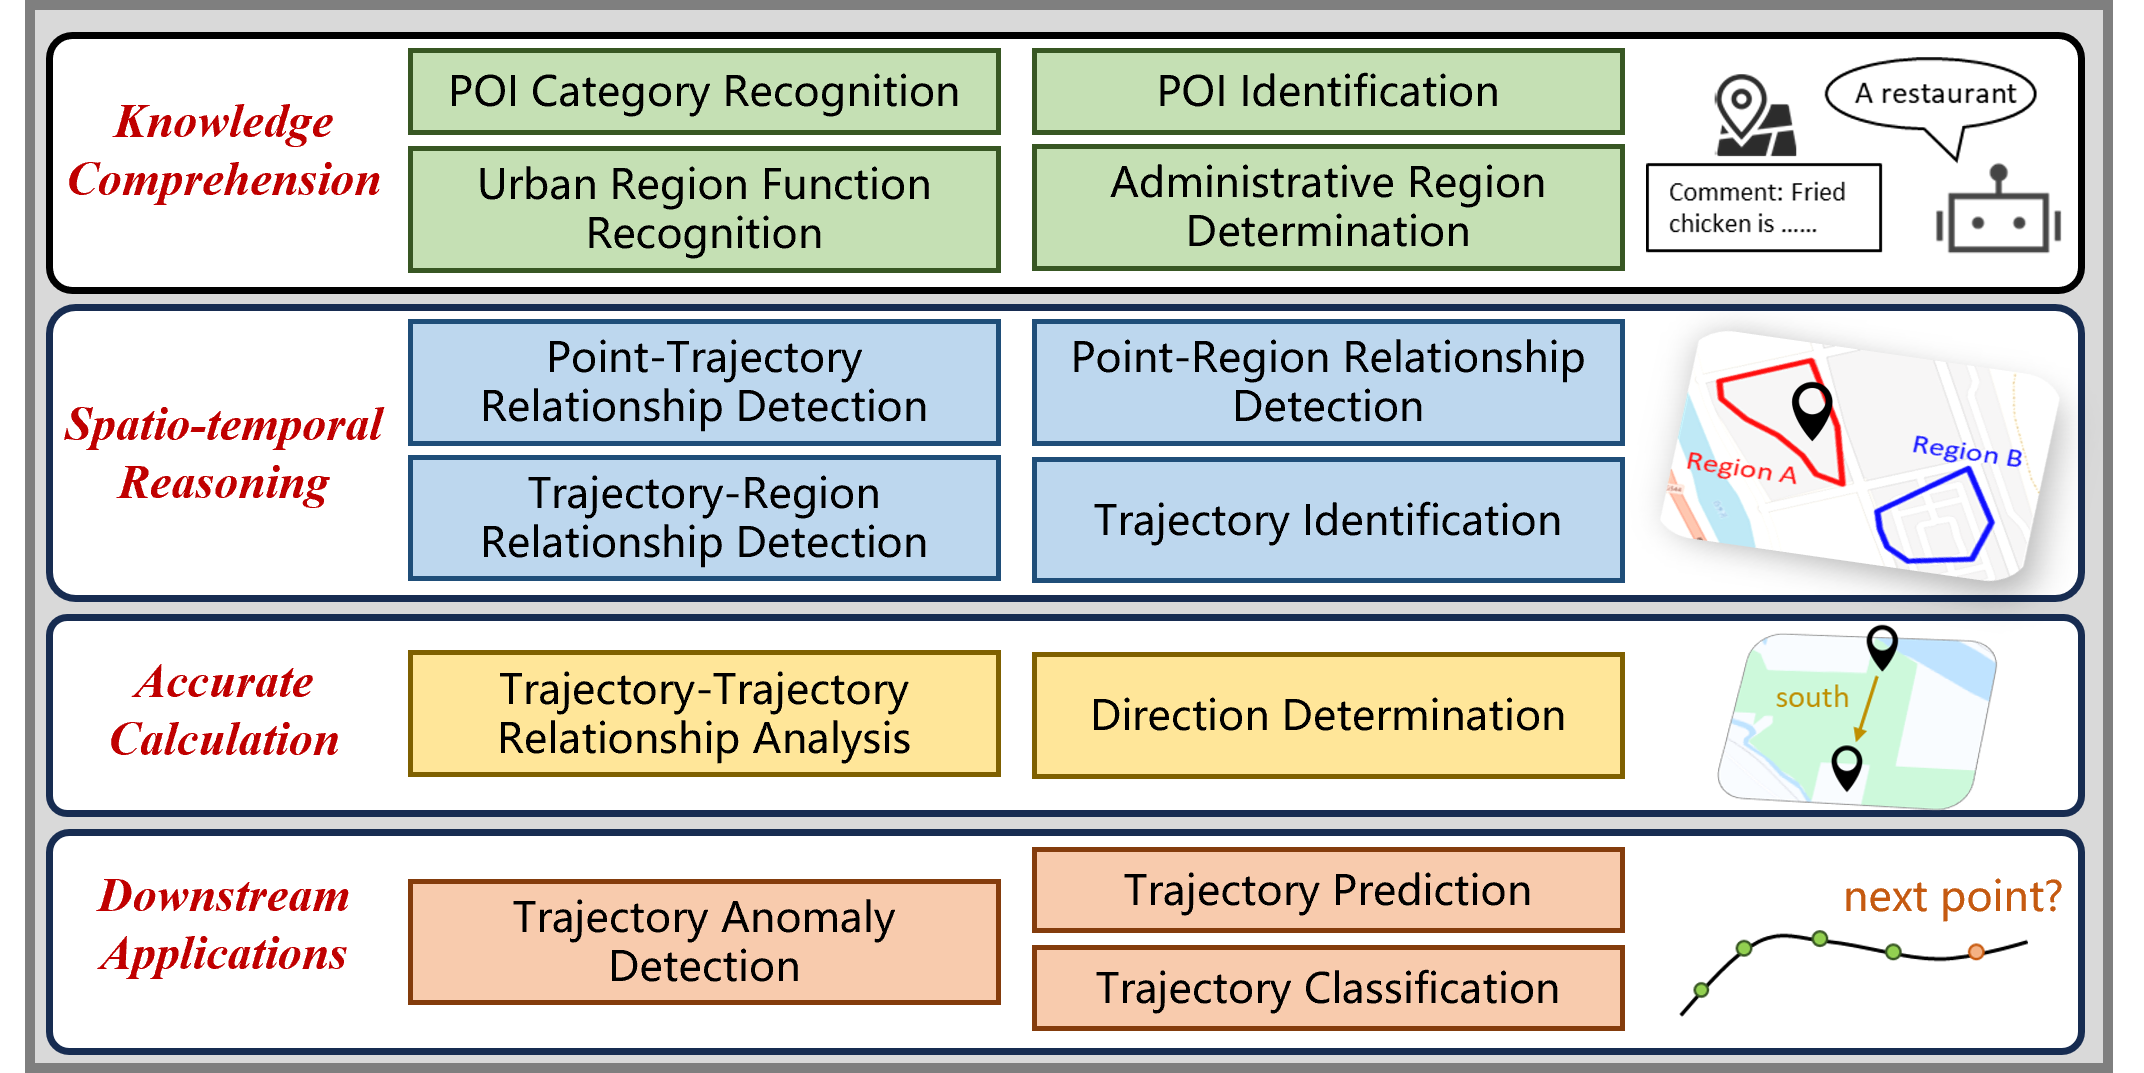
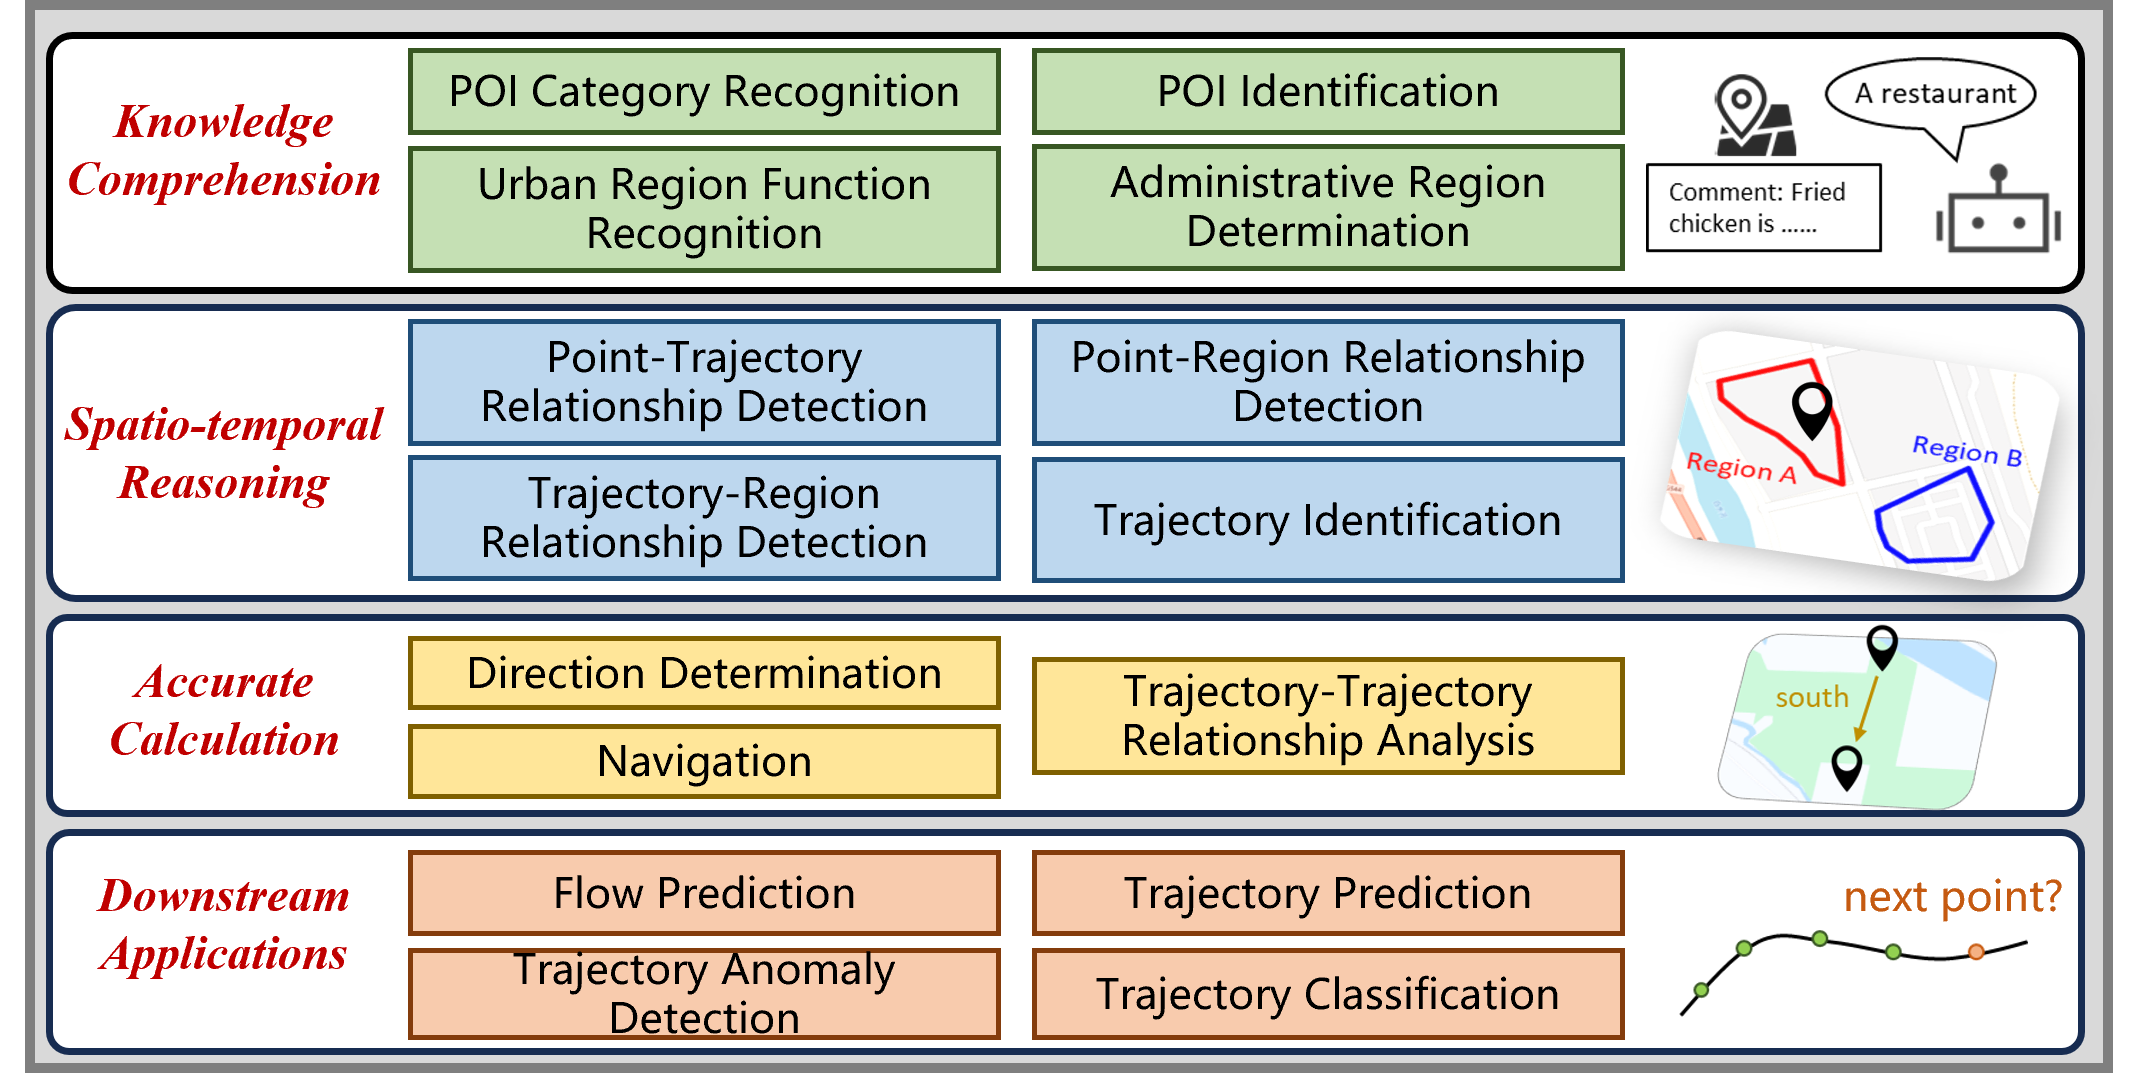
Update README.md

Changed region(s): [[0.1875, 0.5843, 0.75, 0.9842]]

diff --git a/README.md b/README.md
@@ -9,7 +9,7 @@ Institute of Computing Technology (ICT), Chinese Academy of Sciences (CAS)<br/>
 
 ![local file](overview.png)
 
-STBench is a benchmark to evaluate the ability of large language models in spatio-temporal analysis. This benchmark consists of 13 distinct tasks and over 60,000 question-answer pairs, covering four dimensions: knowledge comprehension, spatio-temporal reasoning, accurate computation and downstream applications.
+STBench is a benchmark to evaluate the ability of large language models in spatio-temporal analysis. This benchmark consists of 15 distinct tasks and over 70,000 question-answer pairs, covering four dimensions: knowledge comprehension, spatio-temporal reasoning, accurate computation and downstream applications.
 
 All data samples in STBench are in the form of text completion. An instance is as follows:
 ```text
@@ -110,6 +110,8 @@ Project
    
 ## Experimental Results
 
++ Accuracy and MAE are shown in the following table:
+
 <table>
     <tr>
         <td align="center"></td>
@@ -119,48 +121,48 @@ Project
         <td align="center" colspan="3">Downstream Applications</td>
     </tr>
     <tr>
-        <td align="center"></td><td align="center">PCR</td><td align="center">PI</td><td align="center">URFR</td><td align="center">ARD</td><td align="center">PTRD</td><td align="center">PRRD</td><td align="center">TRRD</td><td align="center">TI</td><td align="center">DD</td><td align="center">TTRA</td><td align="center">TAD</td><td align="center">TC</td><td align="center">TP</td>
+        <td align="center"></td><td align="center">PCR</td><td align="center">PI</td><td align="center">URFR</td><td align="center">ARD</td><td align="center">PTRD</td><td align="center">PRRD</td><td align="center">TRRD</td><td align="center">TI</td><td align="center">DD</td><td align="center">NAV</td><td align="center">TTRA</td><td align="center">FP</td><td align="center">TAD</td><td align="center">TC</td><td align="center">TP</td>
     </tr>
     <tr>
-        <td align="center"> ChatGPT </td><td align="center"><span style="text-decoration: underline;"> 0.7926 </span></td><td align="center"> 0.5864 </td><td align="center"><span style="text-decoration: underline;"> 0.3978 </span></td><td align="center"><span style="text-decoration: underline;"> 0.8358 </span></td><td align="center"><b> 0.7525 </b></td><td align="center"><b> 0.9240 </b></td><td align="center"> 0.0258 </td><td align="center"> 0.3342 </td><td align="center"> 0.1698 </td><td align="center"> 0.1048 </td><td align="center"><span style="text-decoration: underline;"> 0.5382 </span></td><td align="center"><b> 0.4475 </b></td><td align="center"> -
+        <td align="center"> ChatGPT </td><td align="center"><span style="text-decoration: underline;"> 0.7926 </span></td><td align="center"> 0.5864 </td><td align="center"><span style="text-decoration: underline;"> 0.3978 </span></td><td align="center"><span style="text-decoration: underline;"> 0.8358 </span></td><td align="center"><b> 0.7525 </b></td><td align="center"><b> 0.9240 </b></td><td align="center"> 0.0258 </td><td align="center"> 0.3342 </td><td align="center"> 0.1698 </td><td align="center"><span style="text-decoration: underline;"> 0.4384 </span></td><td align="center"> 0.1048 </td><td align="center"> 37.33 </td><td align="center"><span style="text-decoration: underline;"> 0.5382 </span></td><td align="center"><b> 0.4475 </b></td><td align="center"> -
     </tr>
     <tr>
-        <td align="center">GPT-4o </td><td align="center"><b> 0.9588 </b></td><td align="center"><b> 0.7268 </b></td><td align="center"><b> 0.6026 </b></td><td align="center"><b> 0.9656 </b></td><td align="center"> - </td><td align="center"><span style="text-decoration: underline;"> 0.9188 </span></td><td align="center"> 0.1102 </td><td align="center"> 0.4416 </td><td align="center"><b> 0.5434 </b></td><td align="center"><b> 0.3404 </b></td><td align="center"><b> 0.6016 </b></td><td align="center"> - </td><td align="center"> - </td>
+        <td align="center">GPT-4o </td><td align="center"><b> 0.9588 </b></td><td align="center"><b> 0.7268 </b></td><td align="center"><b> 0.6026 </b></td><td align="center"><b> 0.9656 </b></td><td align="center"> - </td><td align="center"><span style="text-decoration: underline;"> 0.9188 </span></td><td align="center"> 0.1102 </td><td align="center"> 0.4416 </td><td align="center"><b> 0.5434 </b><td align="center"><b> 0.7552 </b></td></td><td align="center"><b> 0.3404 </b><td align="center"> 43.25 </td></td><td align="center"><b> 0.6016 </b></td><td align="center"> - </td><td align="center"> - </td>
     </tr>
     <tr>
-        <td align="center"> ChatGLM2 </td><td align="center"> 0.2938 </td><td align="center"> 0.5004 </td><td align="center"> 0.2661 </td><td align="center"> 0.2176 </td><td align="center"> 0.2036 </td><td align="center"> 0.5216 </td><td align="center"><b> 0.2790 </b></td><td align="center"> 0.5000 </td><td align="center"> 0.1182 </td><td align="center"> 0.1992 </td><td align="center"> 0.5000 </td><td align="center"> 0.3333 </td><td align="center"> 231.2 </td>
+        <td align="center"> ChatGLM2 </td><td align="center"> 0.2938 </td><td align="center"> 0.5004 </td><td align="center"> 0.2661 </td><td align="center"> 0.2176 </td><td align="center"> 0.2036 </td><td align="center"> 0.5216 </td><td align="center"><b> 0.2790 </b></td><td align="center"> 0.5000 </td><td align="center"> 0.1182 </td><td align="center"> 0.2924 </td><td align="center"> 0.1992 </td><td align="center"> 63.72 </td><td align="center"> 0.5000 </td><td align="center"> 0.3333 </td><td align="center"> 231.2 </td>
     </tr>
     <tr>
-        <td align="center"> ChatGLM3 </td><td align="center"> 0.4342 </td><td align="center"> 0.5272 </td><td align="center"> 0.2704 </td><td align="center"> 0.2872 </td><td align="center"> 0.3058 </td><td align="center"> 0.8244 </td><td align="center"> 0.1978 </td><td align="center"><span style="text-decoration: underline;"> 0.6842 </span></td><td align="center"> 0.1156 </td><td align="center"> 0.1828 </td><td align="center"> 0.5000 </td><td align="center"> 0.3111 </td><td align="center"> 224.5 </td>
+        <td align="center"> ChatGLM3 </td><td align="center"> 0.4342 </td><td align="center"> 0.5272 </td><td align="center"> 0.2704 </td><td align="center"> 0.2872 </td><td align="center"> 0.3058 </td><td align="center"> 0.8244 </td><td align="center"> 0.1978 </td><td align="center"><span style="text-decoration: underline;"> 0.6842 </span></td><td align="center"> 0.1156 </td><td align="center"> 0.2576 </td><td align="center"> 0.1828 </td><td align="center"> 59.24 </td><td align="center"> 0.5000 </td><td align="center"> 0.3111 </td><td align="center"> 224.5 </td>
     </tr>
     <tr>
-        <td align="center"> Phi-2 </td><td align="center"> - </td><td align="center"> 0.5267 </td><td align="center"> - </td><td align="center"> 0.2988 </td><td align="center"> - </td><td align="center"> - </td><td align="center"> - </td><td align="center"> 0.5000 </td><td align="center"> 0.1182 </td><td align="center"> 0.0658 </td><td align="center"> 0.5000 </td><td align="center"> 0.3333 </td><td align="center"> 206.9 </td>
+        <td align="center"> Phi-2 </td><td align="center"> - </td><td align="center"> 0.5267 </td><td align="center"> - </td><td align="center"> 0.2988 </td><td align="center"> - </td><td align="center"> - </td><td align="center"> - </td><td align="center"> 0.5000 </td><td align="center"> 0.1182 </td><td align="center"> 0.2912 </td><td align="center"> 0.0658 </td><td align="center"><span style="text-decoration: underline;"> 34.82 </span></td><td align="center"> 0.5000 </td><td align="center"> 0.3333 </td><td align="center"> 206.9 </td>
     </tr>
     <tr>
-        <td align="center"> Llama-2-7B </td><td align="center"> 0.2146 </td><td align="center"> 0.4790 </td><td align="center"> 0.2105 </td><td align="center"> 0.2198 </td><td align="center"> 0.2802 </td><td align="center"> 0.6606 </td><td align="center"> 0.2034 </td><td align="center"> 0.5486 </td><td align="center"> 0.1256 </td><td align="center"> 0.2062 </td><td align="center"> 0.5098</td><td align="center"> 0.3333 </td><td align="center"> 189.3 </td>
+        <td align="center"> Llama-2-7B </td><td align="center"> 0.2146 </td><td align="center"> 0.4790 </td><td align="center"> 0.2105 </td><td align="center"> 0.2198 </td><td align="center"> 0.2802 </td><td align="center"> 0.6606 </td><td align="center"> 0.2034 </td><td align="center"> 0.5486 </td><td align="center"> 0.1256 </td><td align="center"> 0.2774 </td><td align="center"> 0.2062 </td><td align="center"> 53.79 </td><td align="center"> 0.5098</td><td align="center"> 0.3333 </td><td align="center"> 189.3 </td>
     </tr>
     <tr>
-        <td align="center"> Vicuna-7B </td><td align="center"> 0.3858 </td><td align="center"> 0.5836 </td><td align="center"> 0.2063 </td><td align="center"> 0.2212 </td><td align="center"> 0.3470 </td><td align="center"> 0.7080 </td><td align="center"> 0.1968 </td><td align="center"> 0.5000 </td><td align="center"> 0.1106 </td><td align="center"> 0.1728 </td><td align="center"> 0.5000 </td><td align="center"> 0.2558 </td><td align="center"> 188.1</td>
+        <td align="center"> Vicuna-7B </td><td align="center"> 0.3858 </td><td align="center"> 0.5836 </td><td align="center"> 0.2063 </td><td align="center"> 0.2212 </td><td align="center"> 0.3470 </td><td align="center"> 0.7080 </td><td align="center"> 0.1968 </td><td align="center"> 0.5000 </td><td align="center"> 0.1106 </td><td align="center"> 0.2588 </td><td align="center"> 0.1728 </td><td align="center"> 48.19 </td><td align="center"> 0.5000 </td><td align="center"> 0.2558 </td><td align="center"> 188.1</td>
     </tr>
     <tr>
-        <td align="center"> Gemma-2B </td><td align="center"> 0.2116 </td><td align="center"> 0.5000 </td><td align="center"> 0.1989 </td><td align="center"> 0.1938 </td><td align="center"> 0.4688 </td><td align="center"> 0.5744 </td><td align="center"> 0.2014 </td><td align="center"> 0.5000 </td><td align="center"><span style="text-decoration: underline;"> 0.1972 </span></td><td align="center"> 0.2038 </td><td align="center"> 0.5000 </td><td align="center"> 0.3333 </td><td align="center"> 207.7 </td>
+        <td align="center"> Gemma-2B </td><td align="center"> 0.2116 </td><td align="center"> 0.5000 </td><td align="center"> 0.1989 </td><td align="center"> 0.1938 </td><td align="center"> 0.4688 </td><td align="center"> 0.5744 </td><td align="center"> 0.2014 </td><td align="center"> 0.5000 </td><td align="center"><span style="text-decoration: underline;"> 0.1972 </span></td><td align="center"> 0.2592 </td><td align="center"> 0.2038 </td><td align="center"> 41.79 </td><td align="center"> 0.5000 </td><td align="center"> 0.3333 </td><td align="center"> 207.7 </td>
     </tr>
     <tr>
-        <td align="center"> Gemma-7B </td><td align="center"> 0.4462 </td><td align="center"> 0.5000 </td><td align="center"> 0.2258 </td><td align="center"> 0.2652 </td><td align="center"> 0.3782 </td><td align="center"> 0.9044 </td><td align="center"> 0.1992 </td><td align="center"> 0.5000 </td><td align="center"> 0.1182 </td><td align="center"> 0.1426 </td><td align="center"> 0.5000 </td><td align="center"> 0.3333 </td><td align="center"><b> 139.4</b></td>
+        <td align="center"> Gemma-7B </td><td align="center"> 0.4462 </td><td align="center"> 0.5000 </td><td align="center"> 0.2258 </td><td align="center"> 0.2652 </td><td align="center"> 0.3782 </td><td align="center"> 0.9044 </td><td align="center"> 0.1992 </td><td align="center"> 0.5000 </td><td align="center"> 0.1182 </td><td align="center"> 0.3886 </td><td align="center"> 0.1426 </td><td align="center"><b> 31.85 </b></td><td align="center"> 0.5000 </td><td align="center"> 0.3333 </td><td align="center"><b> 139.4</b></td>
     </tr>
     <tr>
-        <td align="center"> DeepSeek-7B </td><td align="center"> 0.2160 </td><td align="center"> 0.4708 </td><td align="center"> 0.2071 </td><td align="center"> 0.1938 </td><td align="center"> 0.2142 </td><td align="center"> 0.6424 </td><td align="center"> 0.1173 </td><td align="center"> 0.4964 </td><td align="center"> 0.1972 </td><td align="center"> 0.1646 </td><td align="center"> 0.5000 </td><td align="center"> 0.3333 </td><td align="center"> 220.8</td>
+        <td align="center"> DeepSeek-7B </td><td align="center"> 0.2160 </td><td align="center"> 0.4708 </td><td align="center"> 0.2071 </td><td align="center"> 0.1938 </td><td align="center"> 0.2142 </td><td align="center"> 0.6424 </td><td align="center"> 0.1173 </td><td align="center"> 0.4964 </td><td align="center"> 0.1972 </td><td align="center"> 0.3058 </td><td align="center"> 0.1646 </td><td align="center"> 56.89 </td><td align="center"> 0.5000 </td><td align="center"> 0.3333 </td><td align="center"> 220.8</td>
     </tr>
     <tr>
-        <td align="center"> Falcon-7B </td><td align="center"> 0.1888 </td><td align="center"> 0.5112 </td><td align="center"> 0.1929 </td><td align="center"> 0.1928 </td><td align="center"> 0.1918 </td><td align="center"> 0.4222 </td><td align="center"><span style="text-decoration: underline;"> 0.2061 </span></td><td align="center"><b> 0.7072 </b></td><td align="center"> 0.1365 </td><td align="center"> 0.2124 </td><td align="center"> 0.5000 </td><td align="center"> 0.3309 </td><td align="center"> 3572.8 </td>
+        <td align="center"> Falcon-7B </td><td align="center"> 0.1888 </td><td align="center"> 0.5112 </td><td align="center"> 0.1929 </td><td align="center"> 0.1928 </td><td align="center"> 0.1918 </td><td align="center"> 0.4222 </td><td align="center"><span style="text-decoration: underline;"> 0.2061 </span></td><td align="center"><b> 0.7072 </b></td><td align="center"> 0.1365 </td><td align="center"> 0.2610 </td><td align="center"> 0.2124 </td><td align="center"> 62.52 </td><td align="center"> 0.5000 </td><td align="center"> 0.3309 </td><td align="center"> 3572.8 </td>
     </tr>
     <tr>
-        <td align="center"> Mistral-7B </td><td align="center"> 0.3526 </td><td align="center"> 0.4918 </td><td align="center"> 0.2168 </td><td align="center"> 0.3014 </td><td align="center"> 0.4476 </td><td align="center"> 0.7098 </td><td align="center"> 0.0702 </td><td align="center"> 0.4376 </td><td align="center"> 0.1182 </td><td align="center"> 0.1094 </td><td align="center"> 0.5000 </td><td align="center"> 0.3333 </td><td align="center"> 156.8 </td>
+        <td align="center"> Mistral-7B </td><td align="center"> 0.3526 </td><td align="center"> 0.4918 </td><td align="center"> 0.2168 </td><td align="center"> 0.3014 </td><td align="center"> 0.4476 </td><td align="center"> 0.7098 </td><td align="center"> 0.0702 </td><td align="center"> 0.4376 </td><td align="center"> 0.1182 </td><td align="center"> 0.3006 </td><td align="center"> 0.1094 </td><td align="center"> 42.59 </td><td align="center"> 0.5000 </td><td align="center"> 0.3333 </td><td align="center"> 156.8 </td>
     </tr>
     <tr>
-        <td align="center"> Qwen-7B </td><td align="center"> 0.2504 </td><td align="center"><span style="text-decoration: underline;"> 0.6795 </span></td><td align="center"> 0.2569 </td><td align="center"> 0.2282 </td><td align="center"> 0.2272 </td><td align="center"> 0.5762 </td><td align="center"> 0.1661 </td><td align="center"> 0.4787 </td><td align="center"> 0.1324 </td><td align="center"><span style="text-decoration: underline;"> 0.2424 </span></td><td align="center"> 0.5049 </td><td align="center"><span style="text-decoration: underline;"> 0.3477 </span></td><td align="center"> 205.2 </td>
+        <td align="center"> Qwen-7B </td><td align="center"> 0.2504 </td><td align="center"><span style="text-decoration: underline;"> 0.6795 </span></td><td align="center"> 0.2569 </td><td align="center"> 0.2282 </td><td align="center"> 0.2272 </td><td align="center"> 0.5762 </td><td align="center"> 0.1661 </td><td align="center"> 0.4787 </td><td align="center"> 0.1324 </td><td align="center"> 0.3106 </td><td align="center"><span style="text-decoration: underline;"> 0.2424 </span></td><td align="center"> 53.49 </td><td align="center"> 0.5049 </td><td align="center"><span style="text-decoration: underline;"> 0.3477 </span></td><td align="center"> 205.2 </td>
     </tr>
     <tr>
-        <td align="center"> Yi-6B </td><td align="center"> 0.3576 </td><td align="center"> 0.5052 </td><td align="center"> 0.2149 </td><td align="center"> 0.1880 </td><td align="center"><span style="text-decoration: underline;"> 0.5536 </span></td><td align="center"> 0.8264 </td><td align="center"> 0.1979 </td><td align="center"> 0.5722 </td><td align="center"> 0.1284 </td><td align="center"> 0.2214 </td><td align="center"> 0.5000 </td><td align="center"> 0.3333 </td><td align="center"><span style="text-decoration: underline;"> 156.2 </span></td>
+        <td align="center"> Yi-6B </td><td align="center"> 0.3576 </td><td align="center"> 0.5052 </td><td align="center"> 0.2149 </td><td align="center"> 0.1880 </td><td align="center"><span style="text-decoration: underline;"> 0.5536 </span></td><td align="center"> 0.8264 </td><td align="center"> 0.1979 </td><td align="center"> 0.5722 </td><td align="center"> 0.1284 </td><td align="center"> 0.3336 </td><td align="center"> 0.2214 </td><td align="center"> 52.03 </td><td align="center"> 0.5000 </td><td align="center"> 0.3333 </td><td align="center"><span style="text-decoration: underline;"> 156.2 </span></td>
     </tr>
 </table>
